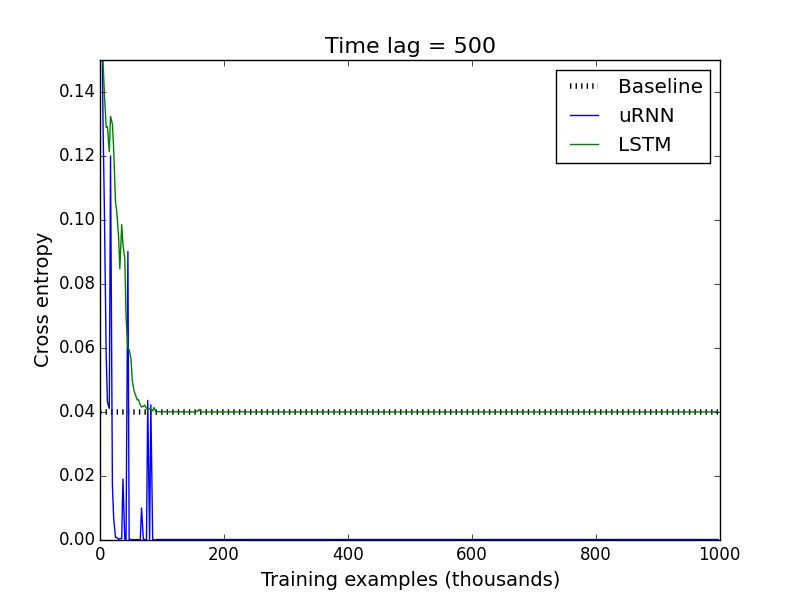
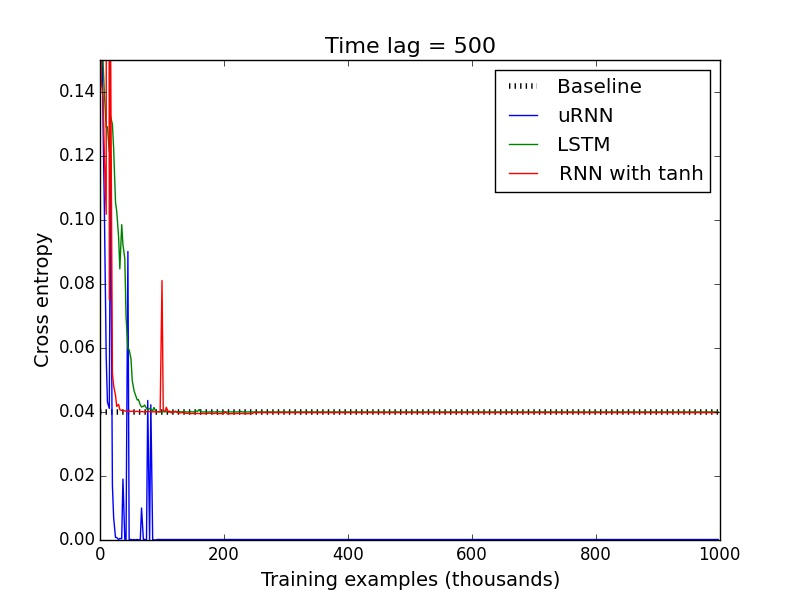
exps

Changed region(s): [[0.125, 0.09, 0.9062, 0.69], [0.5938, 0.12, 0.9062, 0.33], [0.625, 0.09, 0.6875, 0.12]]

diff --git a/paper/uRNN/uRNN.tex b/paper/uRNN/uRNN.tex
@@ -201,7 +201,7 @@ We experimented with several initialization strategies. However, because of the 
 \end{itemize}
 
 \section{Experiments}
-In this section we show the performance of our uRRN on several tasks related to learning long-term dependencies. These problems were especially created to be pathologically hard, and have been used as benchmarks for testing the capacity of a model to capture long-term memory \citep{LSTM} \citep{HF} \citep{Quoc2015}.
+In this section we show the performance of our uRNN on several tasks related to learning long-term dependencies. These problems were especially created to be pathologically hard, and have been used as benchmarks for testing the capacity of a model to capture long-term memory \citep{LSTM} \citep{HF} \citep{Quoc2015}.
 
 \subsection{Copying memory problem}
 Recurrent networks have major issues when the outputs they try to model depend on inputs that were sent a long time ago \citep{Yoshua94} \citep{Pascanu2013}. Therefore, it is a natural task to ask a recurrent network to reproduce exactly an input it has seen long ago.
@@ -239,15 +239,42 @@ A baseline can be established by realizing what the best strategy is without rem
   \end{minipage} 
 \end{figure}
 
+We ran these experiments for an RNN with tanh activations, an LSTM and an IRNN to compare with our uRNN. All networks except the uRNN have 32 hidden units. This results in about 1000 parameters for the RNN and IRNN, and 4000 for the LSTM. The uRNN was run with 128 hidden units, or about 1900 parameters (less than half as the LSTM). All experiments where done using RMSPROP \citep{RMSPROP}. The IRNN was extremely unstable throughout the experimentation, and we could avoid divergence only with a delay of 100 and learning rate of $10^{-8}$. Because of this, it is not included in the figures, and the plot for this IRNN is shown in the appendix.
+
 In figure 1, we see that except in the simplest case both the RNN with tanh and more surprisingly the LSTMs get almost exactly the same cost as the memoryless strategy. This behaviour is consistent with the results of \cite{NTM}, in which poor performance is evidenced by LSTMs for a very similar problem.
 
 What is very interesting is not only the fact that the uRNN displays perfect performance in very little iterations, but how qualitatively different the results are from the LSTM. One of the most noticeable features is that it goes from initialization to almost 0 cost without staying at the baseline. In contrast, for the first plot, the LSTM stays on the baseline for a while, before starting to improve very slowly. This evidences the fact that the uRNN is a very different model than both LSTMs and classical RNNs, potentially achieving very different internal representations.
 
 \subsection{Adding Problem}
-LSTM
+In this problem, the input consists of two sequences of length $T$. The first sequence (let's call it $x$) consists of numbers sampled uniformly at random from a uniform $\mathcal{U}[0,1]$. The second one consists of all zeros, except for two positions that are 1. This two positions (let's call them $i$ and $j$) are sampled at random from the first and second half respectively. An output is given only after the last time step, and it is $x_i + x_j$ (i.e. the numbers from the first sequence in the marked positions).
+
+\begin{figure}[ht] 
+  \label{ fig7} 
+  \begin{minipage}[b]{0.5\linewidth}
+    \centering
+    \includegraphics[scale=0.25]{figures/memory_100.jpeg}
+    \vspace{4ex}
+  \end{minipage}%%
+  \begin{minipage}[b]{0.5\linewidth}
+    \centering
+    \includegraphics[scale=0.25]{figures/memory_200.jpeg}
+    \vspace{4ex}
+    \end{minipage} 
+  \begin{minipage}[b]{0.5\linewidth}
+    \centering
+    \includegraphics[scale=0.25]{figures/memory_300.jpeg}
+    \vspace{4ex}
+    \end{minipage}%% 
+  \begin{minipage}[b]{0.5\linewidth}
+    \centering
+    \includegraphics[scale=0.25]{figures/memory_500.jpeg}
+    \vspace{4ex}
+  \end{minipage} 
+\end{figure}
+
 
 \subsection{Pixel-by-pixel MNIST}
-IRRN
+IRNN
 
 \subsection{Optimization experiments}
 Ian Good
